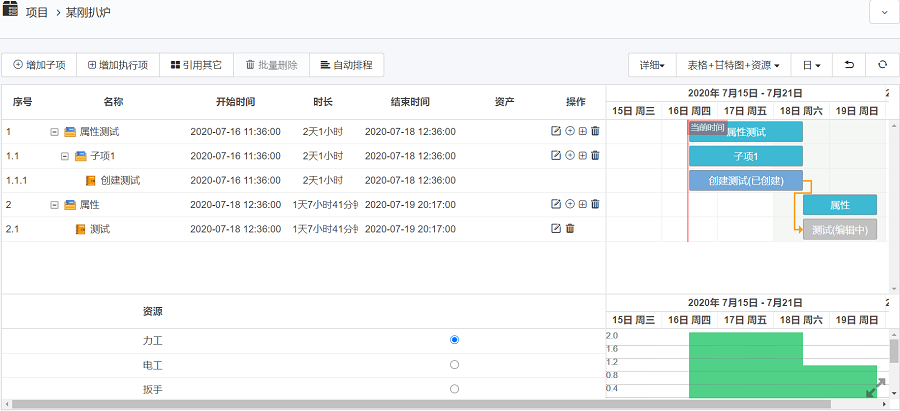
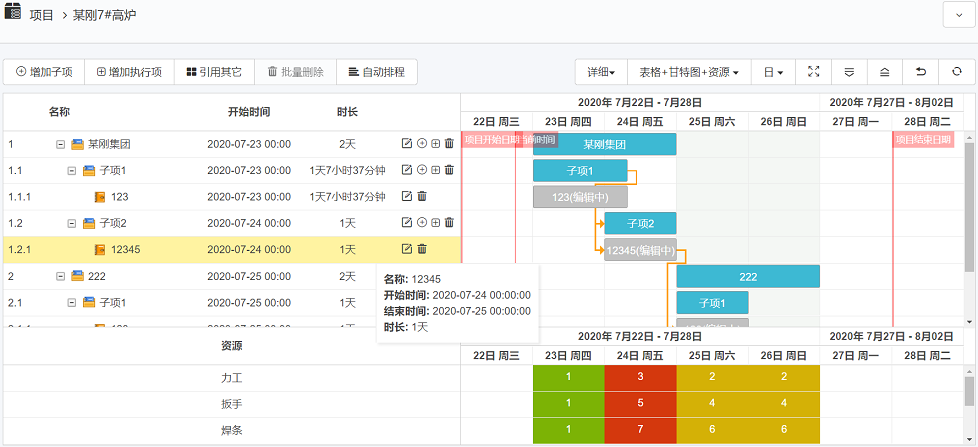
修改内容

diff --git a/docs/发布说明/4.0.0发布说明.md b/docs/发布说明/4.0.0发布说明.md
@@ -69,7 +69,7 @@ import useBaseUrl from '@docusaurus/useBaseUrl';
       <img alt=" " src={useBaseUrl('docimg/xiangmuguanli4.png')} />
 
   * 项目
-    * 新建项目时，增加了选择子项模板的功能，选择之后点击确定，进入项目后除了原有的摘要视图和作业组视图外，新增了详细视图，选择详细后，页面与子项模板基本一致。区别在于，项目中可以选择只添加执行项，以及对于其他子项模板的操作为引用，意思是将其他子项模板内容复制到本项目中，所有编辑后的内容也是保存在当前项目中，不会影响子项模板的原内容。
+    * 新建项目时，增加了选择子项模板的功能，选择之后点击确定，进入项目后除了原有的摘要视图和作业组视图外，新增了详细视图，选择详细后，页面与子项模板基本一致。区别在于，项目中可以选择只添加执行项，以及对于其他子项模板的操作为引用，意思是将其他子项模板内容复制到本项目中，所有编辑后的内容也是保存在当前项目中，不会影响子项模板的原内容。如果在新建项目时，设置了开始时间和结束时间，那么在视图中也会显示出来。
     * 子项模板和项目都支持调整子项和执行项的位置，用鼠标选中后拖动到目标位置即可。
 
       <img alt=" " src={useBaseUrl('docimg/xiangmuguanli7.png')} />
